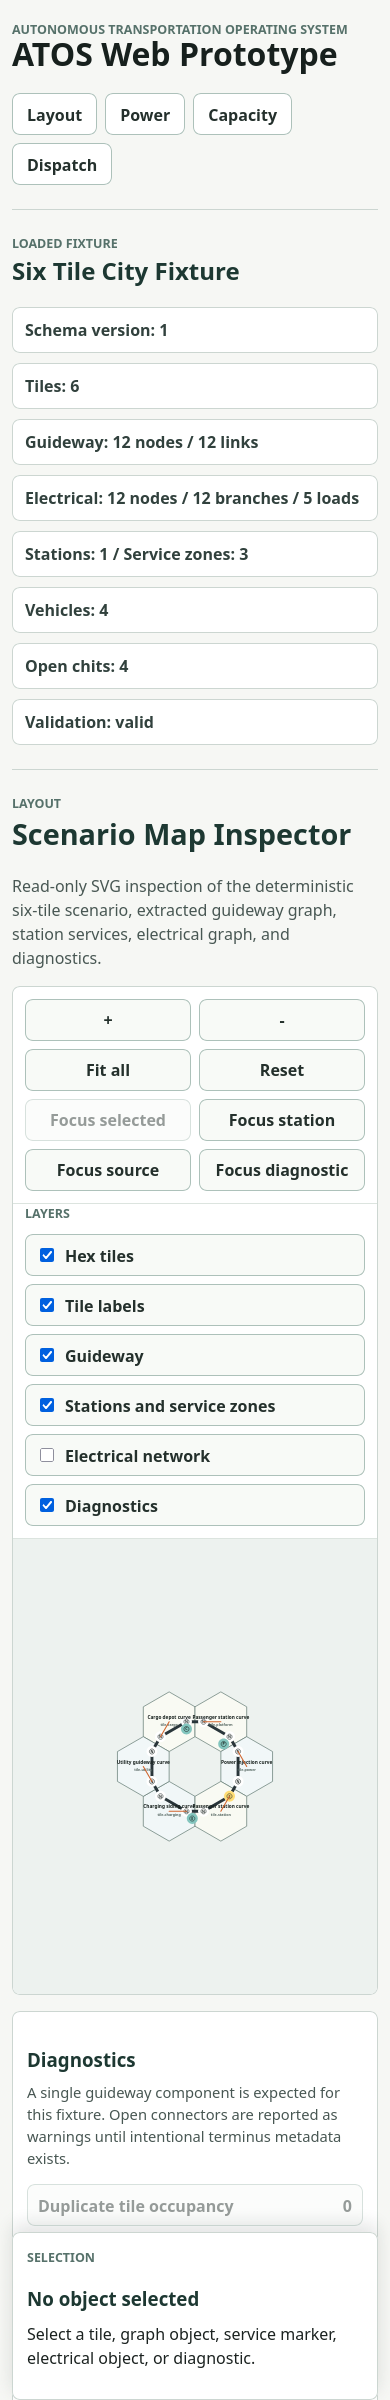
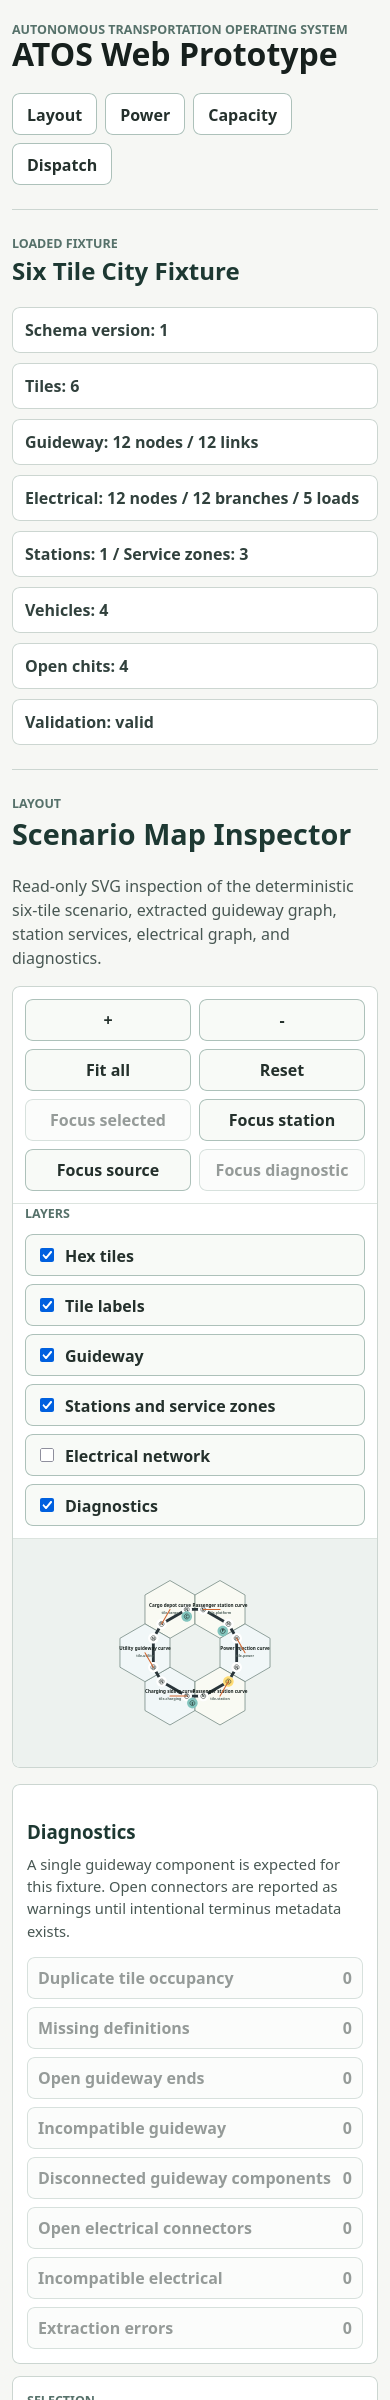
Fix scenario map audit issues

diff --git a/apps/web/src/features/scenario-map/ScenarioMap.tsx b/apps/web/src/features/scenario-map/ScenarioMap.tsx
@@ -29,6 +29,7 @@ import "./ScenarioMap.css";
 
 type PointerTracker = {
   lastPoint: { x: number; y: number } | null;
+  lastSvgPoint: { x: number; y: number } | null;
   moved: boolean;
   pointers: Map<number, { x: number; y: number }>;
   pinchDistance: number | null;
@@ -43,6 +44,7 @@ export function ScenarioMap({ model: providedModel }: { model?: ScenarioMapRende
   const [view, dispatchView] = useReducer(reduceViewState, initialView);
   const tracker = useRef<PointerTracker>({
     lastPoint: null,
+    lastSvgPoint: null,
     moved: false,
     pointers: new Map(),
     pinchDistance: null,
@@ -104,10 +106,9 @@ export function ScenarioMap({ model: providedModel }: { model?: ScenarioMapRende
 
   function handleWheel(event: WheelEvent<SVGSVGElement>): void {
     event.preventDefault();
-    const rect = event.currentTarget.getBoundingClientRect();
     dispatchView({
       type: "zoom",
-      viewportPoint: { x: event.clientX - rect.left, y: event.clientY - rect.top },
+      viewportPoint: clientPointToSvgPoint(event.currentTarget, { x: event.clientX, y: event.clientY }),
       scaleMultiplier: event.deltaY < 0 ? 1.12 : 0.88,
     });
   }
@@ -116,6 +117,7 @@ export function ScenarioMap({ model: providedModel }: { model?: ScenarioMapRende
     const point = { x: event.clientX, y: event.clientY };
     tracker.current.pointers.set(event.pointerId, point);
     tracker.current.lastPoint = point;
+    tracker.current.lastSvgPoint = clientPointToSvgPoint(event.currentTarget, point);
     tracker.current.moved = false;
     if (tracker.current.pointers.size === 2) {
       tracker.current.pinchDistance = pointerDistance([...tracker.current.pointers.values()]);
@@ -134,7 +136,7 @@ export function ScenarioMap({ model: providedModel }: { model?: ScenarioMapRende
       if (lastDistance > 0) {
         dispatchView({
           type: "zoom",
-          viewportPoint: averageViewportPoint(points, event.currentTarget.getBoundingClientRect()),
+          viewportPoint: averageSvgPoint(points, event.currentTarget),
           scaleMultiplier: nextDistance / lastDistance,
         });
       }
@@ -148,12 +150,15 @@ export function ScenarioMap({ model: providedModel }: { model?: ScenarioMapRende
       tracker.current.lastPoint = nextPoint;
       return;
     }
-    const delta = { x: nextPoint.x - lastPoint.x, y: nextPoint.y - lastPoint.y };
+    const nextSvgPoint = clientPointToSvgPoint(event.currentTarget, nextPoint);
+    const lastSvgPoint = tracker.current.lastSvgPoint ?? clientPointToSvgPoint(event.currentTarget, lastPoint);
+    const delta = { x: nextSvgPoint.x - lastSvgPoint.x, y: nextSvgPoint.y - lastSvgPoint.y };
     if (Math.abs(delta.x) > 0 || Math.abs(delta.y) > 0) {
       tracker.current.moved = true;
       dispatchView({ type: "pan", delta });
     }
     tracker.current.lastPoint = nextPoint;
+    tracker.current.lastSvgPoint = nextSvgPoint;
   }
 
   function handlePointerUp(event: PointerEvent<SVGSVGElement>): void {
@@ -163,11 +168,14 @@ export function ScenarioMap({ model: providedModel }: { model?: ScenarioMapRende
       setSelection(null);
     }
     tracker.current.lastPoint = null;
+    tracker.current.lastSvgPoint = null;
   }
 
   function firstDiagnosticSelection(): ScenarioSelection | undefined {
     return model.focusTargets.firstDiagnostic ?? model.diagnostics[0]?.selection;
   }
+
+  const focusDiagnosticTarget = firstDiagnosticSelection();
 
   return (
     <section className="scenario-map-workspace" id="layout" aria-label="Layout workspace">
@@ -186,11 +194,11 @@ export function ScenarioMap({ model: providedModel }: { model?: ScenarioMapRende
         <div className="scenario-map-main">
           <ScenarioMapToolbar
             canFocusSelected={Boolean(selection)}
+            canFocusDiagnostic={Boolean(focusDiagnosticTarget)}
             onFit={() => dispatchView({ type: "fit", bounds: model.bounds, viewport: DEFAULT_VIEWPORT })}
             onFocusDiagnostic={() => {
-              const diagnostic = firstDiagnosticSelection();
-              if (diagnostic) {
-                selectAndFocus(diagnostic);
+              if (focusDiagnosticTarget) {
+                selectAndFocus(focusDiagnosticTarget);
               }
             }}
             onFocusSelected={() => focusSelection(selection)}
@@ -237,7 +245,7 @@ export function ScenarioMap({ model: providedModel }: { model?: ScenarioMapRende
             onPointerUp={handlePointerUp}
             onPointerCancel={handlePointerUp}
             onWheel={handleWheel}
-            role="img"
+            role="group"
             tabIndex={0}
             viewBox={`0 0 ${DEFAULT_VIEWPORT.width} ${DEFAULT_VIEWPORT.height}`}
           >
@@ -603,16 +611,31 @@ function pointerDistance(points: readonly { x: number; y: number }[]): number {
   return Math.hypot(points[0].x - points[1].x, points[0].y - points[1].y);
 }
 
-function averageViewportPoint(
+function averageSvgPoint(
   points: readonly { x: number; y: number }[],
-  rect: DOMRect,
+  svg: SVGSVGElement,
 ): { x: number; y: number } {
   const sum = points.reduce(
     (current, point) => ({ x: current.x + point.x, y: current.y + point.y }),
     { x: 0, y: 0 },
   );
-  return {
-    x: sum.x / points.length - rect.left,
-    y: sum.y / points.length - rect.top,
-  };
+  return clientPointToSvgPoint(svg, { x: sum.x / points.length, y: sum.y / points.length });
+}
+
+function clientPointToSvgPoint(svg: SVGSVGElement, point: { x: number; y: number }): { x: number; y: number } {
+  const screenMatrix = svg.getScreenCTM?.();
+  if (screenMatrix && typeof DOMPoint === "function") {
+    const svgPoint = new DOMPoint(point.x, point.y).matrixTransform(screenMatrix.inverse());
+    return { x: svgPoint.x, y: svgPoint.y };
+  }
+
+  const rect = svg.getBoundingClientRect();
+  if (rect.width > 0 && rect.height > 0) {
+    return {
+      x: ((point.x - rect.left) / rect.width) * DEFAULT_VIEWPORT.width,
+      y: ((point.y - rect.top) / rect.height) * DEFAULT_VIEWPORT.height,
+    };
+  }
+
+  return { x: point.x - rect.left, y: point.y - rect.top };
 }

diff --git a/apps/web/src/features/scenario-map/render-model.test.ts b/apps/web/src/features/scenario-map/render-model.test.ts
@@ -30,6 +30,17 @@ describe("scenario map render model", () => {
 
     expect(model.layers).toEqual(DEFAULT_SCENARIO_MAP_LAYERS);
     expect(model.layers.electrical).toBe(false);
+    expect(model.diagnostics).toHaveLength(0);
+    expect(model.diagnosticSummary).toEqual({
+      duplicateTileOccupancy: 0,
+      missingDefinition: 0,
+      openGuidewayEnd: 0,
+      incompatibleGuidewayConnection: 0,
+      disconnectedGuidewayComponent: 0,
+      openElectricalConnector: 0,
+      incompatibleElectricalConnection: 0,
+      extractionError: 0,
+    });
     expect(JSON.stringify(document)).toBe(before);
   });
 

diff --git a/apps/web/src/features/scenario-map/ScenarioMap.css b/apps/web/src/features/scenario-map/ScenarioMap.css
@@ -377,18 +377,12 @@ input:focus-visible {
   }
 
   .scenario-map-canvas {
-    min-height: 360px;
-    aspect-ratio: 4 / 5;
+    min-height: 0;
+    aspect-ratio: 16 / 10;
   }
 
   .scenario-map-sidepanel {
     grid-template-columns: 1fr;
-  }
-
-  .scenario-map-details {
-    position: sticky;
-    bottom: 0;
-    box-shadow: 0 -8px 18px rgb(23 32 29 / 12%);
   }
 
   .scenario-map-details dl div {

diff --git a/apps/web/src/features/scenario-map/ScenarioMapToolbar.tsx b/apps/web/src/features/scenario-map/ScenarioMapToolbar.tsx
@@ -1,4 +1,5 @@
 export function ScenarioMapToolbar({
+  canFocusDiagnostic,
   canFocusSelected,
   onFit,
   onFocusDiagnostic,
@@ -9,6 +10,7 @@ export function ScenarioMapToolbar({
   onZoomIn,
   onZoomOut,
 }: {
+  canFocusDiagnostic: boolean;
   canFocusSelected: boolean;
   onFit: () => void;
   onFocusDiagnostic: () => void;
@@ -42,7 +44,7 @@ export function ScenarioMapToolbar({
       <button onClick={onFocusSource} type="button">
         Focus source
       </button>
-      <button onClick={onFocusDiagnostic} type="button">
+      <button disabled={!canFocusDiagnostic} onClick={onFocusDiagnostic} type="button">
         Focus diagnostic
       </button>
     </div>

diff --git a/apps/web/src/features/scenario-map/ScenarioMap.test.tsx b/apps/web/src/features/scenario-map/ScenarioMap.test.tsx
@@ -15,6 +15,7 @@ describe("ScenarioMap", () => {
     expect(screen.getByTestId("tile-tile-charging")).toBeInTheDocument();
     expect(screen.getByLabelText("Electrical network")).not.toBeChecked();
     expect(screen.queryByTestId("electricalSource-tile-power:source")).not.toBeInTheDocument();
+    expect(screen.getByRole("button", { name: "Focus diagnostic" })).toBeDisabled();
   });
 
   it("selects and clears tiles with stable IDs", () => {
@@ -88,6 +89,8 @@ describe("ScenarioMap", () => {
     });
 
     render(<ScenarioMap model={diagnosticModel} />);
+    expect(screen.getByRole("button", { name: "Focus diagnostic" })).toBeEnabled();
+
     fireEvent.click(screen.getByRole("button", { name: /Open guideway ends: 2/i }));
 
     expect(screen.getByRole("heading", { name: /Open guideway edge/i })).toBeInTheDocument();